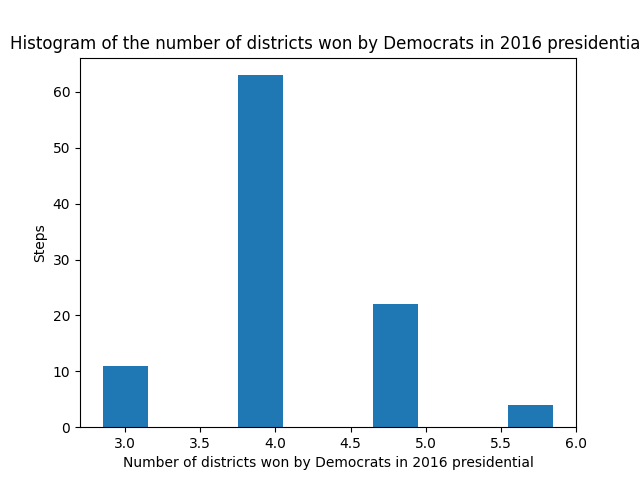
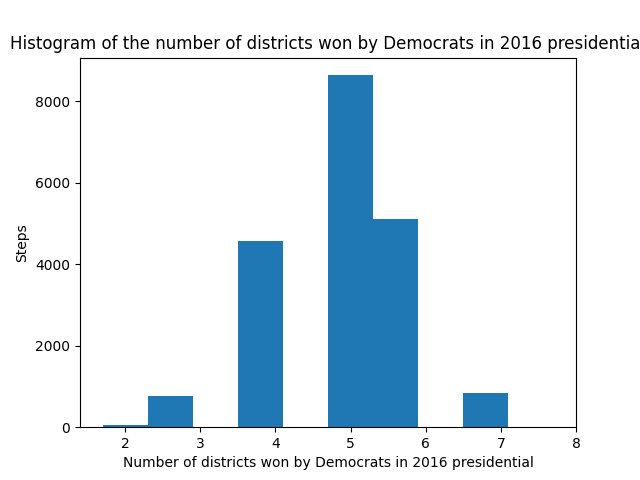
refactor: general clean up and run at 20k steps

diff --git a/main.py b/main.py
@@ -16,6 +16,8 @@ import matplotlib.pyplot as plt
 from gerrychain.metrics import mean_median, efficiency_gap
 from tqdm import tqdm
 
+NUM_STEPS = 20_000
+
 
 class bcolors:
     HEADER = "\033[95m"
@@ -44,7 +46,6 @@ ideal_population = total_population / num_districts
 population_tolerance = 0.02
 
 
-# TODO: short burst
 cutedge_ensemble = []
 population_ensemble = []
 
@@ -53,6 +54,14 @@ districts_won_by_democrat_in_sen16 = []
 
 maj_white_ensemble = []
 maj_black_ensemble = []
+
+mean_median_pres = []
+mean_median_sen = []
+efficiency_gap_pres = []
+efficiency_gap_sen = []
+
+wins_by_district_pres16 = [[] for _ in range(num_districts)]
+wins_by_district_sen16 = [[] for _ in range(num_districts)]
 
 # Create an initial partition
 print(f"{bcolors.OKCYAN}🏗  Creating an initial partition...{bcolors.ENDC}")
@@ -102,17 +111,22 @@ chain = MarkovChain(
     ],
     accept=accept.always_accept,
     initial_state=initial_partition,
-    total_steps=10_000,
+    total_steps=NUM_STEPS,
 )
 
 print(f"{bcolors.WARNING}\n🚨 Running the chain...{bcolors.ENDC}")
-# Run the chain
+
 for partition in tqdm(chain):
     cutedge_ensemble.append(len(partition["cut_edges"]))
     population_ensemble.append(sorted(partition["populaton"].values()))
 
     districts_won_by_democrat_in_pres16.append(partition["dem_won_pres"].wins("Dem"))
     districts_won_by_democrat_in_sen16.append(partition["dem_won_sen"].wins("Dem"))
+
+    mean_median_pres.append(mean_median(partition["dem_won_pres"]))
+    mean_median_sen.append(mean_median(partition["dem_won_sen"]))
+    efficiency_gap_pres.append(efficiency_gap(partition["dem_won_pres"]))
+    efficiency_gap_sen.append(efficiency_gap(partition["dem_won_sen"]))
 
     num_white = 0
     num_black = 0
@@ -127,6 +141,10 @@ for partition in tqdm(chain):
             num_white += 1
         elif max_prec == b_prec:
             num_black += 1
+        wins_by_district_pres16[i - 1].append(
+            partition["dem_won_pres"].percent("Dem", i)
+        )
+        wins_by_district_sen16[i - 1].append(partition["dem_won_sen"].percent("Dem", i))
 
     maj_black_ensemble.append(num_black)
     maj_white_ensemble.append(num_white)
@@ -184,20 +202,11 @@ plt.savefig("maj_black.png")
 # -------------------------------------------------------
 # Mean Median and Efficiency Gap analysis
 # -------------------------------------------------------
-mean_median_pres = []
-mean_median_sen = []
-efficiency_gap_pres = []
-efficiency_gap_sen = []
+
 print(
     f"\n{bcolors.OKPINK}📊 Generating mean-median analysis for pres and sen elections{bcolors.ENDC}"
 )
 plt.figure()
-
-for partition in chain:
-    mean_median_pres.append(mean_median(partition["dem_won_pres"]))
-    mean_median_sen.append(mean_median(partition["dem_won_sen"]))
-    efficiency_gap_pres.append(efficiency_gap(partition["dem_won_pres"]))
-    efficiency_gap_sen.append(efficiency_gap(partition["dem_won_sen"]))
 plt.plot(mean_median_pres, label="Presidential")
 plt.plot(mean_median_sen, label="Senatorial")
 # mark the 0 line
@@ -230,20 +239,12 @@ plt.savefig("efficiency_gap.png")
 # Marginal box plots for dem won pres16 for each district, x axis is the number of
 # districts and y axis is the % of wins. each district comes from the
 # partition in chain.
-wins_by_district_pres16 = [[] for _ in range(num_districts)]
-wins_by_district_sen16 = [[] for _ in range(num_districts)]
 
 print(
     f"\n{bcolors.OKPINK}🕯  Generating marginal box plots for Dem presidential election{bcolors.ENDC}"
 )
 
 plt.figure()
-for partition in chain:
-    for i in range(0, num_districts):
-        wins_by_district_pres16[i].append(
-            partition["dem_won_pres"].percent("Dem", i + 1)
-        )
-        wins_by_district_sen16[i].append(partition["dem_won_sen"].percent("Dem", i + 1))
 plt.boxplot(wins_by_district_pres16)
 plt.xlabel("Districts")
 plt.ylabel("% of wins")
